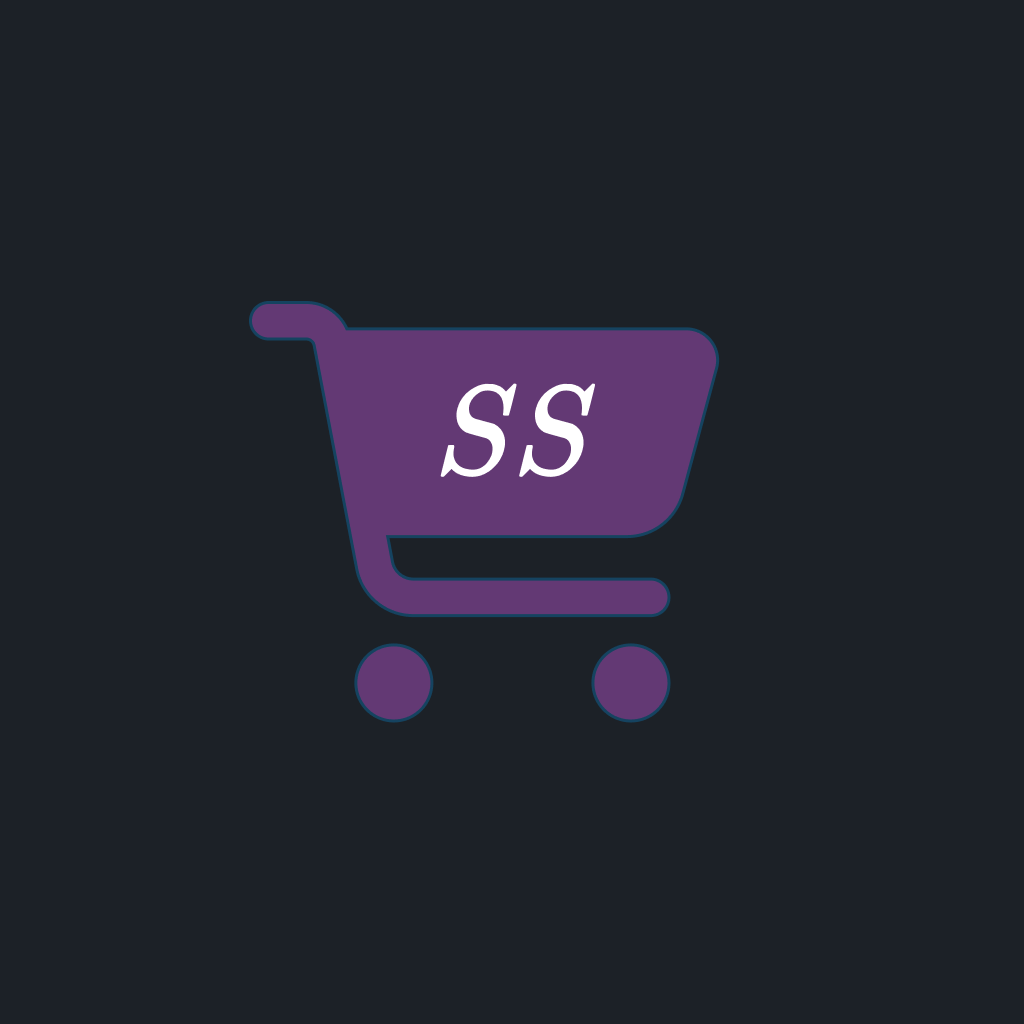
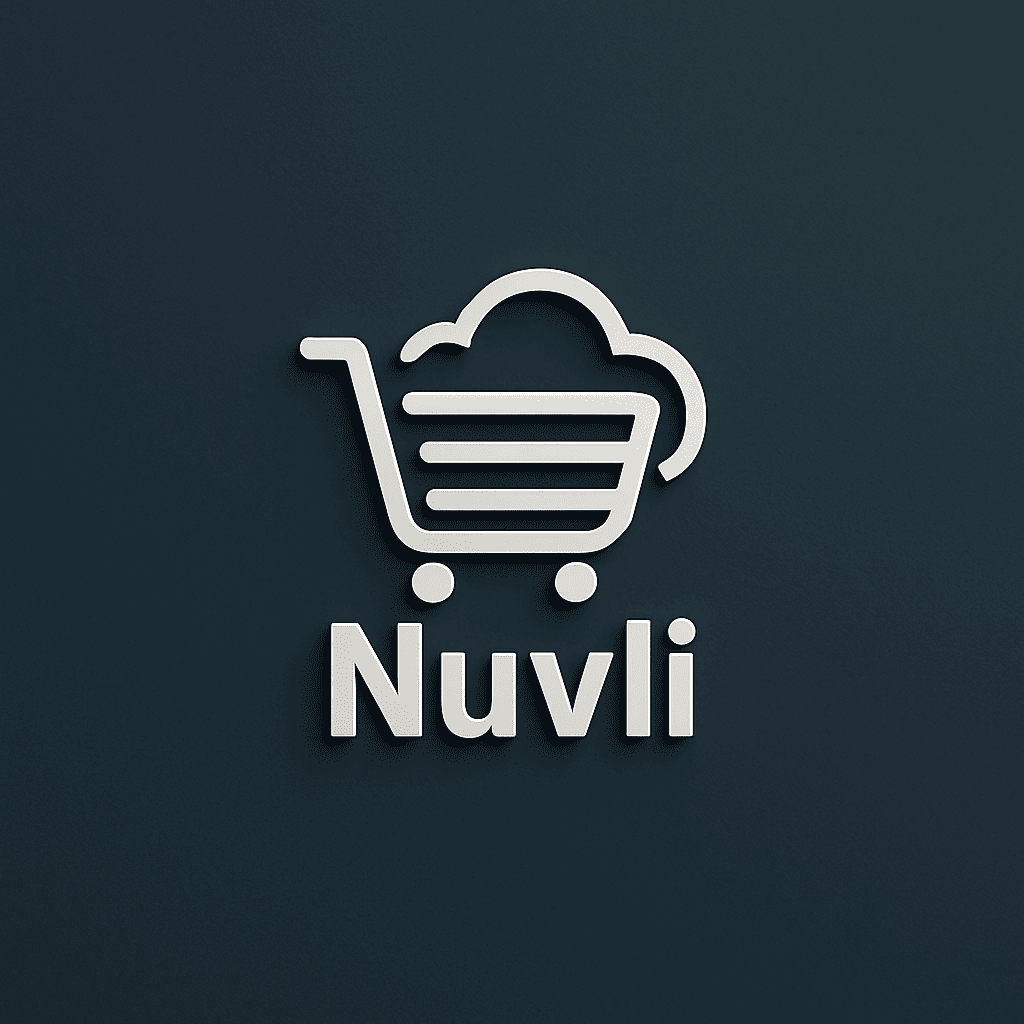
Modify application name and images

Changed region(s): [[0.25, 0.25, 0.7188, 0.7188]]

diff --git a/app.config.ts b/app.config.ts
@@ -3,7 +3,7 @@ import { APP_VARIANT } from './constants/config'
 import { ExpoConfig } from 'expo/config'
 
 const config: ExpoConfig = {
-  name: 'ShopSmart',
+  name: 'Nuvli',
   slug: 'shop-smart',
   version: '1.0.0',
   orientation: 'portrait',
